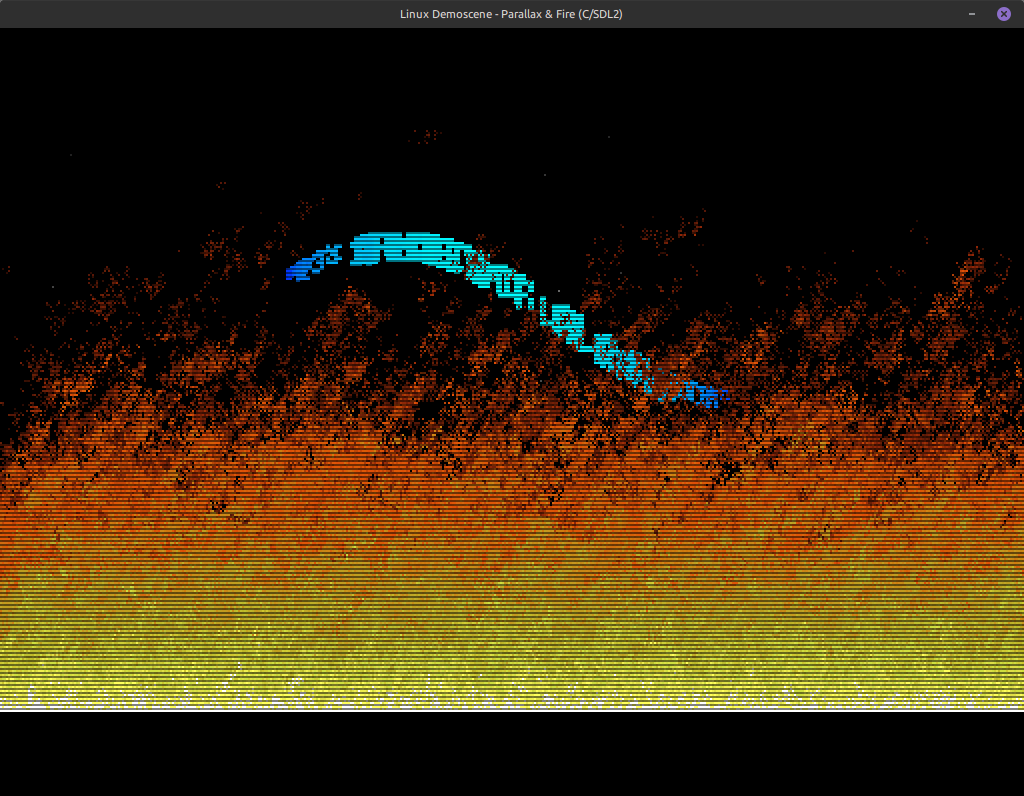
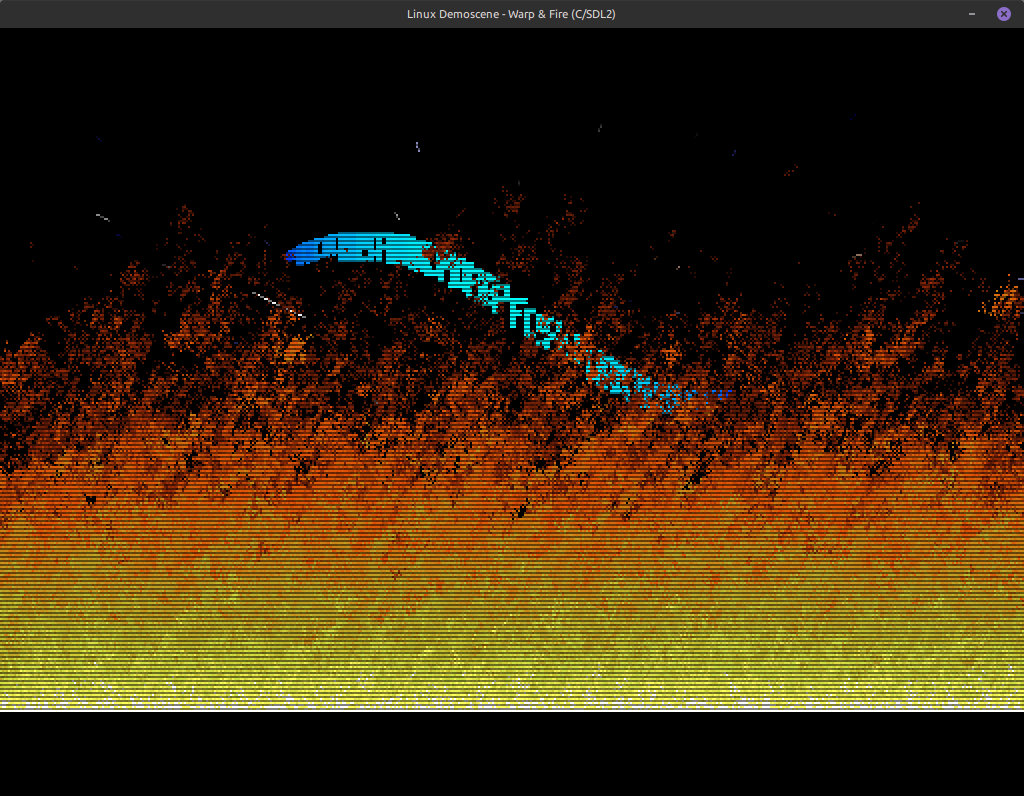
added fullscreen handling + hide mouse cursor + cmdline args.

diff --git a/linuxdemo.c b/linuxdemo.c
@@ -9,11 +9,11 @@
 #define FIRE_WIDTH 512
 #define FIRE_HEIGHT 300
 
-/* Display Window Resolution */
+/* Display Window Resolution (used for windowed mode) */
 #define WINDOW_WIDTH 1024
 #define WINDOW_HEIGHT 768
 
-#define NUM_STARS 500
+#define NUM_STARS 1000
 
 /* Classic 37-color fire palette */
 static const uint32_t firePalette[37] = {
@@ -26,7 +26,7 @@ static const uint32_t firePalette[37] = {
     0xFFffffff // Hottest
 };
 
-/* Tiny 3x5 font for the scroller (A-Z, Space, ., -, *) */
+/* Tiny 3x5 font for the scroller */
 const char* font3x5[30][5] = {
     {"###", "# #", "###", "# #", "# #"}, // A
     {"## ", "# #", "## ", "# #", "## "}, // B
@@ -62,11 +62,25 @@ const char* font3x5[30][5] = {
 
 uint8_t firePixels[FIRE_HEIGHT][FIRE_WIDTH];
 uint32_t frameBuffer[FIRE_HEIGHT][FIRE_WIDTH];
-
-/* 3D Star structure */
 struct Star { float x, y, z; } stars[NUM_STARS];
 
-/* Draws a scaled character from our font array */
+/* Bresenham's Line Algorithm for Star Trails */
+void drawLine(int x0, int y0, int x1, int y1, uint32_t color) {
+    int dx = abs(x1 - x0), sx = x0 < x1 ? 1 : -1;
+    int dy = -abs(y1 - y0), sy = y0 < y1 ? 1 : -1;
+    int err = dx + dy, e2;
+
+    while (true) {
+        if (x0 >= 0 && x0 < FIRE_WIDTH && y0 >= 0 && y0 < FIRE_HEIGHT) {
+            frameBuffer[y0][x0] = color;
+        }
+        if (x0 == x1 && y0 == y1) break;
+        e2 = 2 * err;
+        if (e2 >= dy) { err += dy; x0 += sx; }
+        if (e2 <= dx) { err += dx; y0 += sy; }
+    }
+}
+
 void drawChar(int ch_idx, float cx, float cy, float scale, uint32_t color) {
     if (ch_idx < 0 || ch_idx > 29) return;
     int size = (int)(2.0f * scale); 
@@ -111,21 +125,38 @@ void updateFire() {
 int main(int argc, char* argv[]) {
     srand((unsigned int)time(NULL));
 
+    // Parse command line arguments
+    bool isFullscreen = false;
+    for (int i = 1; i < argc; i++) {
+        if (strcmp(argv[i], "-f") == 0 || strcmp(argv[i], "--fullscreen") == 0) {
+            isFullscreen = true;
+        }
+    }
+
     if (SDL_Init(SDL_INIT_VIDEO) < 0) return 1;
 
-    SDL_Window* window = SDL_CreateWindow("Linux Demoscene - Parallax & Fire (C/SDL2)", SDL_WINDOWPOS_CENTERED, SDL_WINDOWPOS_CENTERED, WINDOW_WIDTH, WINDOW_HEIGHT, 0);
+    // Apply fullscreen flag if requested (SDL_WINDOW_FULLSCREEN_DESKTOP creates a modern borderless fullscreen)
+    Uint32 windowFlags = 0;
+    if (isFullscreen) {
+        windowFlags |= SDL_WINDOW_FULLSCREEN_DESKTOP;
+        SDL_ShowCursor(SDL_DISABLE); // Hide the mouse cursor
+    }
+
+    SDL_Window* window = SDL_CreateWindow("Linux Demoscene - Warp & Fire (C/SDL2)", SDL_WINDOWPOS_CENTERED, SDL_WINDOWPOS_CENTERED, WINDOW_WIDTH, WINDOW_HEIGHT, windowFlags);
     SDL_Renderer* renderer = SDL_CreateRenderer(window, -1, SDL_RENDERER_ACCELERATED);
+    
+    // This function automatically scales our 320x240 buffer to fit whatever the fullscreen resolution is
     SDL_RenderSetLogicalSize(renderer, FIRE_WIDTH, FIRE_HEIGHT);
+    
     SDL_Texture* texture = SDL_CreateTexture(renderer, SDL_PIXELFORMAT_ARGB8888, SDL_TEXTUREACCESS_STREAMING, FIRE_WIDTH, FIRE_HEIGHT);
 
-    // Seed initial stars
     for(int i=0; i<NUM_STARS; i++) {
-        stars[i].x = (rand() % 4000) - 1000;
-        stars[i].y = (rand() % 4000) - 1000;
+        stars[i].x = (rand() % 2000) - 1000;
+        stars[i].y = (rand() % 2000) - 1000;
         stars[i].z = (rand() % 255) + 1;
     }
 
-    const char* scrollText = "HELLO DEMOSCENE! * # WELCOME TO THE LINUX TERMINAL # * ENJOY THIS PARALLAX STARFIELD WITH SPHERICAL TEXT SPIN AND PIXEL FIRE * GREETINGS FROM NORWAY *       ";
+    const char* scrollText = "HELLO DEMOSCENE * WELCOME TO THE LINUX TERMINAL * ENJOY THIS PARALLAX STARFIELD WITH SPHERICAL TEXT SPIN AND PIXEL FIRE * GREETINGS FROM NORWAY *       ";
     int time_counter = 0;
     bool running = true;
     SDL_Event event;
@@ -133,54 +164,73 @@ int main(int argc, char* argv[]) {
     while (running) {
         while (SDL_PollEvent(&event)) {
             if (event.type == SDL_QUIT) running = false;
+            
+            // Allow quitting by pressing Escape (essential for fullscreen!)
+            if (event.type == SDL_KEYDOWN) {
+                if (event.key.keysym.sym == SDLK_ESCAPE) {
+                    running = false;
+                }
+            }
         }
 
-        /* 1. Clear Screen */
         memset(frameBuffer, 0, sizeof(frameBuffer));
 
-        /* 2. Parallax 3D Stars */
+        /* 2. Warp-Speed Star Trails */
+        float starSpeed = 3.0f;
         for(int i=0; i<NUM_STARS; i++) {
-            stars[i].z -= 2.0f; // Fly forward
+            float old_z = stars[i].z;
+            stars[i].z -= starSpeed;
+            
             if (stars[i].z <= 1.0f) {
                 stars[i].z = 255.0f;
                 stars[i].x = (rand() % 2000) - 1000;
                 stars[i].y = (rand() % 2000) - 1000;
+                old_z = stars[i].z; 
             }
-            // 3D to 2D Projection
+            
             int px = (int)((stars[i].x / stars[i].z) * 120 + (FIRE_WIDTH / 2));
             int py = (int)((stars[i].y / stars[i].z) * 120 + (FIRE_HEIGHT / 2));
             
-            if (px >= 0 && px < FIRE_WIDTH && py >= 0 && py < FIRE_HEIGHT) {
-                uint8_t intensity = (uint8_t)(255 - stars[i].z); // Dimmer further away
-                frameBuffer[py][px] = 0xFF000000 | (intensity<<16) | (intensity<<8) | intensity;
+            int prev_px = (int)((stars[i].x / old_z) * 120 + (FIRE_WIDTH / 2));
+            int prev_py = (int)((stars[i].y / old_z) * 120 + (FIRE_HEIGHT / 2));
+            
+            int twinkle = rand() % 20;
+            int intensity = (int)(255 - stars[i].z) - twinkle;
+            if (intensity < 0) intensity = 0;
+            if (intensity > 255) intensity = 255;
+            
+            uint8_t r = intensity, g = intensity, b = intensity;
+            if (i % 3 == 0) { 
+                b = (intensity + 50 > 255) ? 255 : intensity + 50;
+            } else if (i % 4 == 0) { 
+                r = (intensity + 50 > 255) ? 255 : intensity + 50; 
+                g = (intensity + 20 > 255) ? 255 : intensity + 20;
             }
+            
+            uint32_t color = 0xFF000000 | (r<<16) | (g<<8) | b;
+            drawLine(prev_px, prev_py, px, py, color);
         }
 
         /* 3. Spherical Text Spin */
         float radius = 110.0f;
         for (int i = 0; scrollText[i] != '\0'; i++) {
-            // Map character index and time to an angle on a circle
-            float theta = (i * 0.20f) - (time_counter * 0.015f);
+            float theta = (i * 0.20f) - (time_counter * 0.015f); 
             
             float z = sin(theta);
-            if (z < 0) continue; // Behind the sphere, cull it
+            if (z < 0) continue; 
             float x = cos(theta);
             
-            // Project mapped 3D coordinates back to 2D screen space
             float scale = 0.5f + (z * 1.5f); 
             float cx = (FIRE_WIDTH / 2.0f) + (x * radius) - (scale * 4.0f); 
-            
-            // Add a sine wave on the Y axis to give the cylinder a wavy/bouncy deformation
-            float cy = (FIRE_HEIGHT / 3.0f) + (sin(time_counter * 0.02f + x * 2.0f) * 40.0f);
+            float cy = (FIRE_HEIGHT / 3.0f) + (sin(time_counter * 0.02f + x * 2.0f) * 40.0f); 
 
-            int char_idx = 26; // Default to Space
+            int char_idx = 26;
             char c = scrollText[i];
             if (c >= 'A' && c <= 'Z') char_idx = c - 'A';
             else if (c == '.') char_idx = 27;
             else if (c == '-') char_idx = 28;
             else if (c == '*') char_idx = 29;
 
-            // Give the text an electric cyan glow based on depth
             uint8_t depthColor = (uint8_t)(50 + z * 205);
             uint32_t color = 0xFF000000 | (0<<16) | (depthColor<<8) | 255; 
 
@@ -188,7 +238,6 @@ int main(int argc, char* argv[]) {
         }
 
         /* 4. Update and overlay Fire */
-        // Keep the bottom row burning
         for (int x = 0; x < FIRE_WIDTH; x++) {
             firePixels[FIRE_HEIGHT - 1][x] = 36;
         }
@@ -196,7 +245,6 @@ int main(int argc, char* argv[]) {
         for (int y = 0; y < FIRE_HEIGHT; y++) {
             for (int x = 0; x < FIRE_WIDTH; x++) {
                 int heat = firePixels[y][x];
-                // Only draw fire if it's hot enough, letting the background peek through the smoke
                 if (heat > 3) {
                     frameBuffer[y][x] = firePalette[heat];
                 }
@@ -222,6 +270,10 @@ int main(int argc, char* argv[]) {
 
         time_counter++;
         SDL_Delay(16);
+    }
+
+    if (isFullscreen) {
+        SDL_ShowCursor(SDL_ENABLE); // Restore cursor before quitting
     }
 
     SDL_DestroyTexture(texture);
